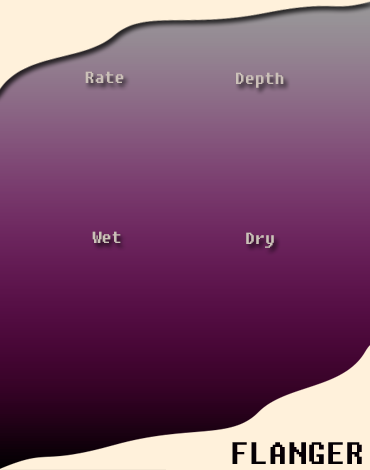
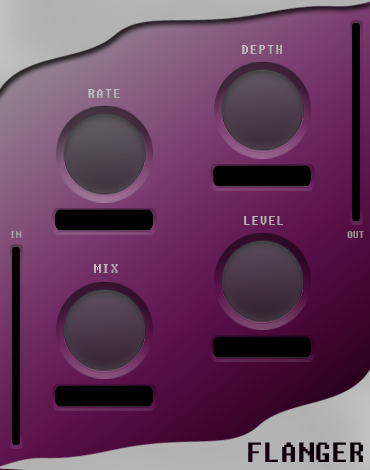
Updated Flanger plugin GUI and assets

diff --git a/plugins/Flanger/PluginEditor.cpp b/plugins/Flanger/PluginEditor.cpp
@@ -3,14 +3,21 @@
 
 //==============================================================================
 FlangerPluginAudioProcessorEditor::FlangerPluginAudioProcessorEditor (FlangerPluginAudioProcessor& p)
-    : AudioProcessorEditor (&p), audioProcessor (p)
+    : AudioProcessorEditor (&p), audioProcessor (p),
+    inputMeter(LevelMeter::Orientations::Vertical, [&]() {return audioProcessor.meterSource.getNextInput();}),
+    outputMeter(LevelMeter::Orientations::Vertical, [&]() {return audioProcessor.meterSource.getNextOutput();})
 {
-
     setSize (370, 470);
+
+    graphics.setColour (Slider::textBoxOutlineColourId, juce::Colours::transparentBlack);
+    graphics.setColour (Slider::textBoxBackgroundColourId, juce::Colours::transparentBlack);
+    graphics.setColour (Slider::textBoxTextColourId, juce::Colours::ivory.withAlpha(0.85f));
+
+    setMeters();
 
     //Rate Slider
     rateSlider.reset(new juce::Slider("RateSlider"));
-    rateSlider->setSliderStyle(juce::Slider::Rotary);
+    rateSlider->setSliderStyle(juce::Slider::SliderStyle::RotaryHorizontalVerticalDrag);
     rateSlider->setTextBoxStyle(juce::Slider::TextBoxBelow, false, 80, 20);
     rateSlider->setTextValueSuffix(" Hz");
     rateSlider->setLookAndFeel(&graphics);
@@ -21,9 +28,8 @@ FlangerPluginAudioProcessorEditor::FlangerPluginAudioProcessorEditor (FlangerPlu
 
     //Depth Slider
     depthSlider.reset(new juce::Slider("DepthSlider"));
-    depthSlider->setSliderStyle(juce::Slider::Rotary);
+    depthSlider->setSliderStyle(juce::Slider::SliderStyle::RotaryHorizontalVerticalDrag);
     depthSlider->setTextBoxStyle(juce::Slider::TextBoxBelow, false, 80, 20);
-    depthSlider->setTextValueSuffix(" %");
     depthSlider->setLookAndFeel(&graphics);
     addAndMakeVisible(depthSlider.get());
 
@@ -31,29 +37,34 @@ FlangerPluginAudioProcessorEditor::FlangerPluginAudioProcessorEditor (FlangerPlu
         SliderAttachment>(audioProcessor.apvts, "DEPTH_ID", *depthSlider);
 
     //Wet Slider
-    wetSlider.reset(new juce::Slider("WetSlider"));
-    wetSlider->setSliderStyle(juce::Slider::Rotary);
-    wetSlider->setTextBoxStyle(juce::Slider::TextBoxBelow, false, 80, 20);
-    wetSlider->setLookAndFeel(&graphics);
-    addAndMakeVisible(wetSlider.get()); 
+    mixSlider.reset(new juce::Slider("MixSlider"));
+    mixSlider->setSliderStyle(juce::Slider::SliderStyle::RotaryHorizontalVerticalDrag);
+    mixSlider->setTextBoxStyle(juce::Slider::TextBoxBelow, false, 80, 20);
+    mixSlider->setTextValueSuffix(" %");
+    mixSlider->setLookAndFeel(&graphics);
+    addAndMakeVisible(mixSlider.get()); 
     
-    wetSliderAtt = std::make_unique<juce::AudioProcessorValueTreeState::
-        SliderAttachment>(audioProcessor.apvts, "WET_ID", *wetSlider);
+    mixSliderAtt = std::make_unique<juce::AudioProcessorValueTreeState::
+        SliderAttachment>(audioProcessor.apvts, "MIX_ID", *mixSlider);
 
-    //Dry Slider
-    drySlider.reset(new juce::Slider("DrySlider"));
-    drySlider->setSliderStyle(juce::Slider::Rotary);
-    drySlider->setTextBoxStyle(juce::Slider::TextBoxBelow, false, 80, 20);
-    drySlider->setLookAndFeel(&graphics);
-    addAndMakeVisible(drySlider.get());     
+    //Level Slider
+    levelSlider.reset(new juce::Slider("LevelSlider"));
+    levelSlider->setSliderStyle(juce::Slider::SliderStyle::RotaryHorizontalVerticalDrag);
+    levelSlider->setTextBoxStyle(juce::Slider::TextBoxBelow, false, 80, 20);
+    levelSlider->setTextValueSuffix(" dB");
+    levelSlider->setLookAndFeel(&graphics);
+    addAndMakeVisible(levelSlider.get());     
 
-    drySliderAtt = std::make_unique<juce::AudioProcessorValueTreeState::
-        SliderAttachment>(audioProcessor.apvts, "DRY_ID", *drySlider);
+    levelSliderAtt = std::make_unique<juce::AudioProcessorValueTreeState::
+        SliderAttachment>(audioProcessor.apvts, "LEVEL_ID", *levelSlider);
 
-    rateSlider->setBounds(44, 91, 124, 124);
-    depthSlider->setBounds(198, 91, 124, 124);
-    wetSlider->setBounds(44, 252, 124, 124);
-    drySlider->setBounds(198, 252, 124, 124);
+
+    int knobSize = 133;
+
+    rateSlider->setBounds(40, 107, knobSize, knobSize);
+    depthSlider->setBounds(198, 63, knobSize, knobSize);
+    mixSlider->setBounds(40, 283, knobSize, knobSize);
+    levelSlider->setBounds(198, 234, knobSize, knobSize);
 
 }
 
@@ -61,8 +72,8 @@ FlangerPluginAudioProcessorEditor::~FlangerPluginAudioProcessorEditor()
 {
     rateSliderAtt = nullptr;
     depthSliderAtt = nullptr;
-    wetSliderAtt = nullptr;
-    drySliderAtt = nullptr;
+    mixSliderAtt = nullptr;
+    levelSliderAtt = nullptr;
 }
 
 //==============================================================================
@@ -74,4 +85,18 @@ void FlangerPluginAudioProcessorEditor::paint (juce::Graphics& g)
 void FlangerPluginAudioProcessorEditor::resized()
 {
     
+}
+
+void FlangerPluginAudioProcessorEditor::setMeters()
+{
+    addAndMakeVisible(&inputMeter);
+    addAndMakeVisible(&outputMeter);
+
+    inputMeter.setMeterColour(juce::Colours::ivory);
+    outputMeter.setMeterColour(juce::Colours::ivory);
+    inputMeter.setBackgroundColour(juce::Colours::transparentBlack);
+    outputMeter.setBackgroundColour(juce::Colours::transparentBlack);
+
+    inputMeter.setBounds(13, getHeight() / 2 + 13, 6, 195);
+    outputMeter.setBounds(getWidth() - 17, 24, 6, 195);
 }

diff --git a/plugins/Flanger/PluginProcessor.cpp b/plugins/Flanger/PluginProcessor.cpp
@@ -85,8 +85,8 @@ void FlangerPluginAudioProcessor::changeProgramName (int index, const juce::Stri
 //==============================================================================
 void FlangerPluginAudioProcessor::prepareToPlay (double sampleRate, int samplesPerBlock)
 {
-    flanger.prepare(sampleRate);
-   
+  flanger.prepare(sampleRate);
+  meterSource.prepare(sampleRate);   
 }
 
 void FlangerPluginAudioProcessor::releaseResources()
@@ -123,6 +123,8 @@ void FlangerPluginAudioProcessor::processBlock (juce::AudioBuffer<float>& buffer
 {
     updateParameters();
 
+    meterSource.updateInputLevel(buffer);
+
     for (auto i = getTotalNumInputChannels(); i < getTotalNumOutputChannels(); ++i)
         buffer.clear (i, 0, buffer.getNumSamples());
 
@@ -130,6 +132,10 @@ void FlangerPluginAudioProcessor::processBlock (juce::AudioBuffer<float>& buffer
     auto* channelDataRight = buffer.getWritePointer (1);
 
     flanger.process(channelDataLeft, 0, buffer.getNumSamples());
+
+    buffer.applyGain(GainUtilities<float>::decibelsToGain(*apvts.getRawParameterValue("LEVEL_ID")));
+
+    meterSource.updateOutputLevel(buffer);
 
     // Do dual mono
     AudioChannelUtilities<float>::doDualMono(channelDataLeft, channelDataRight, 0, buffer.getNumSamples());
@@ -140,7 +146,7 @@ void FlangerPluginAudioProcessor::updateParameters()
 {
   flanger.setRate(*apvts.getRawParameterValue("RATE_ID"));
   flanger.setDepth((*apvts.getRawParameterValue("DEPTH_ID")) / 100.0);
-  flanger.setMix(*apvts.getRawParameterValue("WET_ID"));
+  flanger.setMix(*apvts.getRawParameterValue("MIX_ID") / 100.0);
 }
 
 juce::AudioProcessorValueTreeState::ParameterLayout FlangerPluginAudioProcessor::createParameters()
@@ -149,8 +155,8 @@ juce::AudioProcessorValueTreeState::ParameterLayout FlangerPluginAudioProcessor:
 
   parameters.push_back(std::make_unique<juce::AudioParameterFloat>("RATE_ID", "RATE", 0.0f, 10.0, 0.3));
   parameters.push_back(std::make_unique<juce::AudioParameterFloat>("DEPTH_ID", "DEPTH", 0.0f, 100.0, 50.0));
-  parameters.push_back(std::make_unique<juce::AudioParameterFloat>("WET_ID", "WET", 0.0f, 1.0, 0.4));
-  parameters.push_back(std::make_unique<juce::AudioParameterFloat>("DRY_ID", "DRY", 0.0f, 1.0, 0.4));
+  parameters.push_back(std::make_unique<juce::AudioParameterFloat>("MIX_ID", "MIX", 0.0f, 100.0, 40.0));
+  parameters.push_back(std::make_unique<juce::AudioParameterFloat>("LEVEL_ID", "LEVEL", -12.0f, 12.0, 0.0));
 
   return { parameters.begin(), parameters.end() };
 }

diff --git a/plugins/Flanger/PluginEditor.h b/plugins/Flanger/PluginEditor.h
@@ -2,6 +2,7 @@
 
 #include "PluginProcessor.h"
 #include <utils/custom_juce_classes/GUIGraphics.h>
+#include <utils/custom_juce_classes/LevelMeter.h>
 
 //==============================================================================
 /**
@@ -16,12 +17,15 @@ public:
     void paint (juce::Graphics&) override;
     void resized() override;
 
+    void setMeters();
+
 private:
     
-    std::unique_ptr<juce::Slider> rateSlider, depthSlider, wetSlider, drySlider;
-    std::unique_ptr<juce::AudioProcessorValueTreeState::SliderAttachment> rateSliderAtt, depthSliderAtt, wetSliderAtt, drySliderAtt;
+    std::unique_ptr<juce::Slider> rateSlider, depthSlider, mixSlider, levelSlider;
+    std::unique_ptr<juce::AudioProcessorValueTreeState::SliderAttachment> rateSliderAtt, depthSliderAtt, mixSliderAtt, levelSliderAtt;
     
     GUIGraphics graphics{ GUIGraphics::EffectTypes::Flanger };
+    LevelMeter inputMeter, outputMeter;
 
     FlangerPluginAudioProcessor& audioProcessor;
 

diff --git a/plugins/Flanger/PluginProcessor.h b/plugins/Flanger/PluginProcessor.h
@@ -2,6 +2,8 @@
 
 #include <juce_audio_processors/juce_audio_processors.h>
 #include <utils/extras/AudioChannelUtilities.h>
+#include <utils/extras/GainUtilities.h>
+#include <utils/custom_juce_classes/LevelMeterSource.h>
 #include <Flanger.h>
 
 //==============================================================================
@@ -51,6 +53,8 @@ public:
 
     juce::AudioProcessorValueTreeState apvts;
     juce::AudioProcessorValueTreeState::ParameterLayout createParameters();
+
+    LevelMeterSource meterSource;
 
 private:
     //==============================================================================
